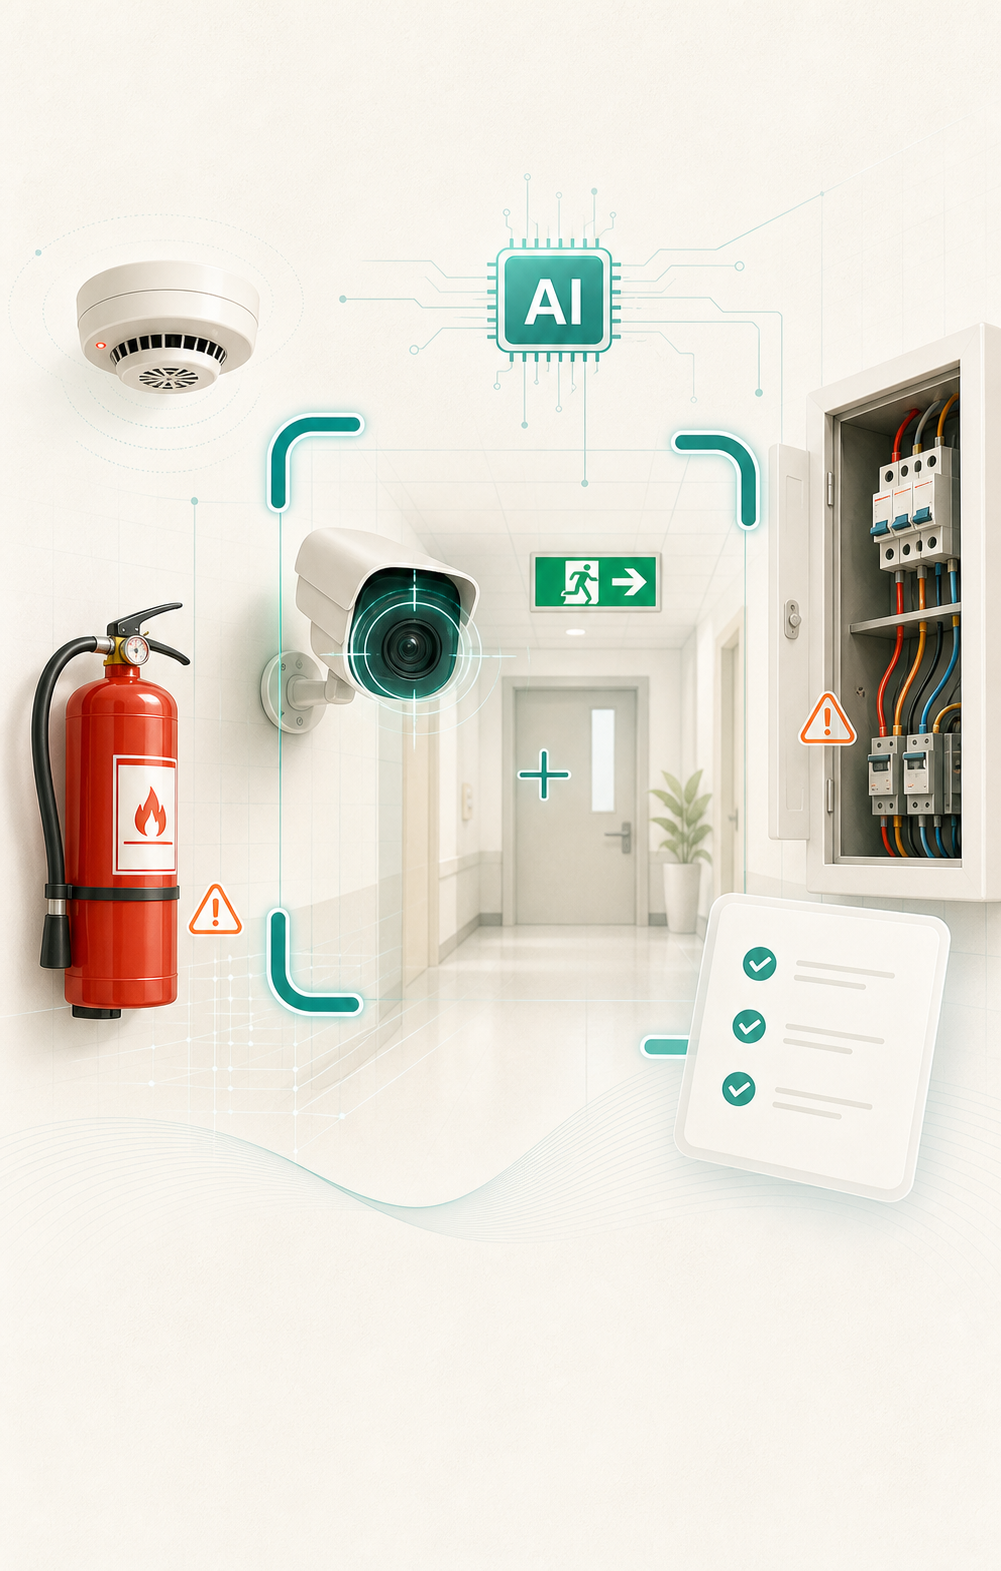
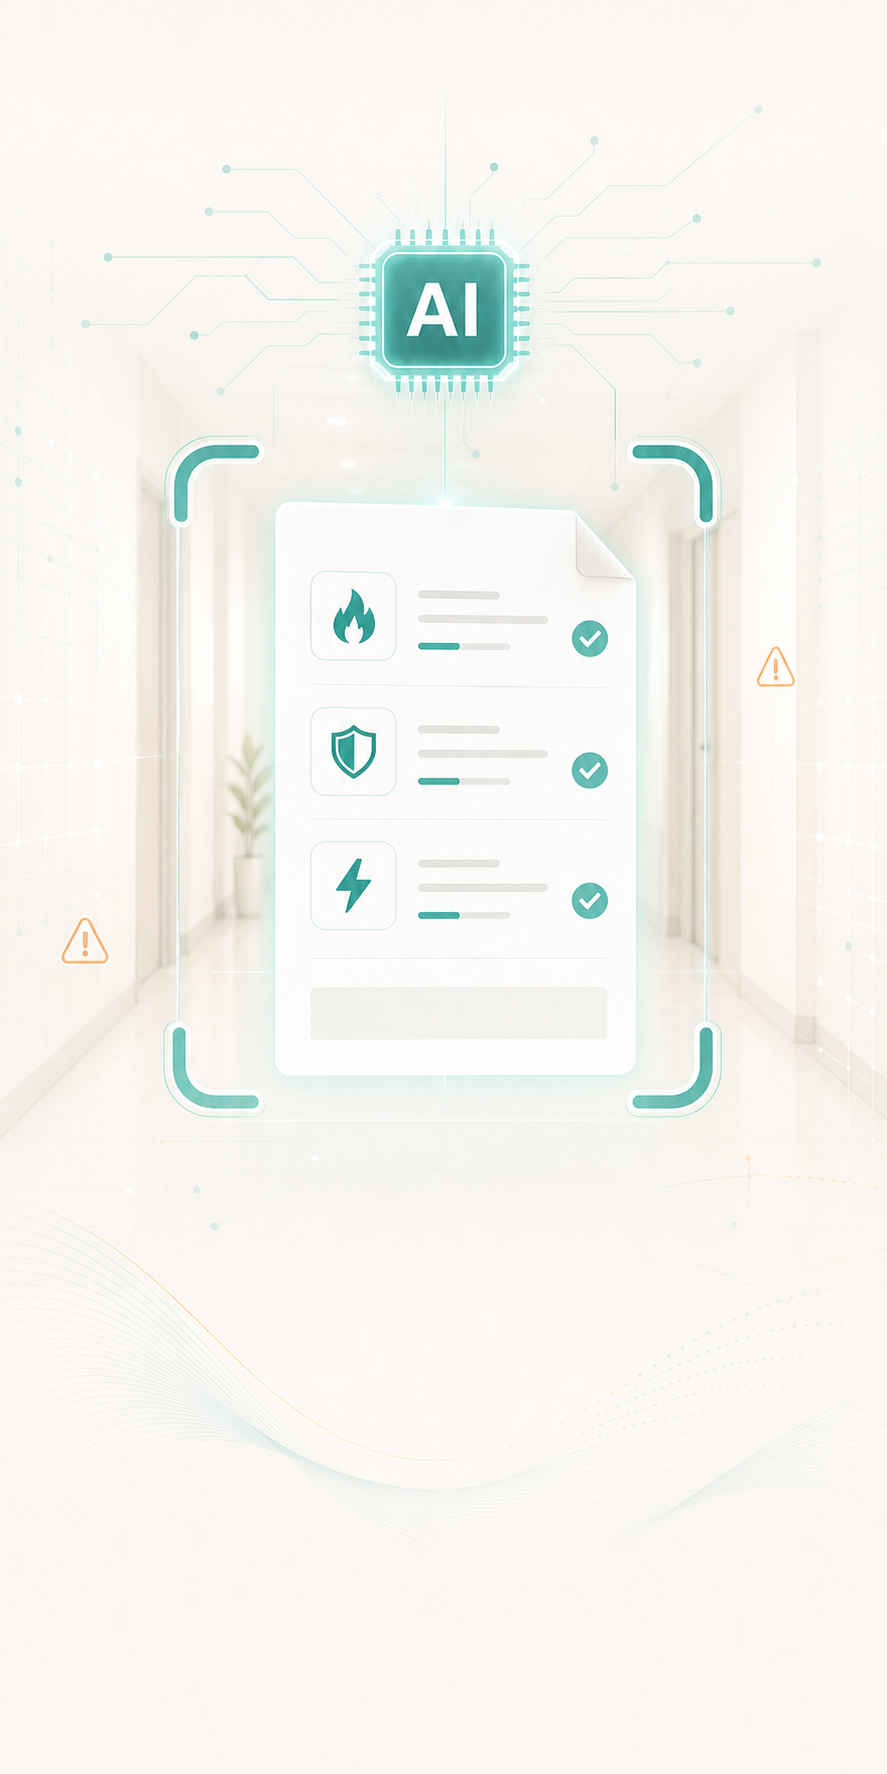
feat: redesign asg100 home hero

diff --git a/src/styles/index.css b/src/styles/index.css
@@ -1474,3 +1474,292 @@ body::before {
   border-radius: 999px;
   background: var(--accent);
 }
+
+/* Home integrated stage v3 */
+.home-page {
+  min-height: 100dvh;
+  background:
+    radial-gradient(circle at 50% 15%, rgba(15, 118, 110, 0.052), transparent 34%),
+    linear-gradient(180deg, #fbfaf6 0%, #fafaf7 100%);
+}
+
+.home-shell,
+.home-shell.rise {
+  width: min(100vw, 430px);
+  max-width: min(100vw, 430px);
+  min-height: 100dvh;
+  margin: 0 auto;
+  padding: 42px 0 calc(76px + max(12px, env(safe-area-inset-bottom)));
+  display: flex;
+  flex-direction: column;
+  overflow: hidden;
+}
+
+.home-title-wrap {
+  padding: 10px 18px 0;
+  z-index: 5;
+}
+
+.home-title {
+  font-size: clamp(1.5rem, 6.25vw, 1.84rem);
+  transform: scale(0.96);
+  transform-origin: center;
+}
+
+.home-title-ornament {
+  margin-top: 13px;
+}
+
+.home-visual-stage {
+  width: 100%;
+  min-height: 0;
+  height: clamp(520px, calc(100dvh - 156px), 640px);
+  flex: 1;
+  position: relative;
+  overflow: hidden;
+  isolation: isolate;
+}
+
+.home-visual-stage::before {
+  content: '';
+  position: absolute;
+  left: 0;
+  right: 0;
+  bottom: 56px;
+  height: 172px;
+  z-index: 3;
+  pointer-events: none;
+  background:
+    radial-gradient(ellipse at 50% 100%, rgba(204, 251, 241, 0.56), transparent 58%),
+    linear-gradient(180deg, rgba(250, 250, 247, 0), rgba(250, 250, 247, 0.78) 78%, rgba(250, 250, 247, 0.92));
+}
+
+.fire-ai-hero {
+  position: absolute;
+  inset: -30px 0 0;
+  width: 100%;
+  height: calc(100% + 8px);
+  margin: 0;
+  overflow: visible;
+  border-radius: 0;
+  pointer-events: none;
+}
+
+.fire-ai-hero::before {
+  z-index: 2;
+  background:
+    linear-gradient(180deg, rgba(250, 250, 247, 0.10) 0%, rgba(250, 250, 247, 0.02) 22%, rgba(250, 250, 247, 0.04) 76%, rgba(250, 250, 247, 0.32) 100%);
+}
+
+.fire-ai-hero::after {
+  inset: auto 0 -84px;
+  height: 32%;
+  z-index: 3;
+  background: linear-gradient(180deg, rgba(250, 250, 247, 0), rgba(250, 250, 247, 0.56) 52%, var(--bg));
+}
+
+.fire-ai-hero-image {
+  width: 100%;
+  height: 100%;
+  object-fit: cover;
+  object-position: center 35%;
+  opacity: 0.78;
+  filter: saturate(0.84) contrast(0.94) brightness(1.08);
+  mask-image: linear-gradient(180deg, transparent 0%, #000 7%, #000 88%, transparent 100%);
+}
+
+.home-actions {
+  position: absolute;
+  left: 18px;
+  right: 18px;
+  bottom: 50px;
+  z-index: 6;
+  width: auto;
+  margin: 0;
+  transform: none;
+  display: grid;
+  grid-template-columns: minmax(0, 1fr) minmax(0, 1fr);
+  gap: 12px;
+}
+
+.home-actions::before {
+  content: '';
+  position: absolute;
+  inset: 8px -8px -8px;
+  z-index: -1;
+  border-radius: 28px;
+  background: rgba(250, 250, 247, 0.42);
+  filter: blur(14px);
+}
+
+.home-action-card {
+  min-height: 108px;
+  padding: 14px 12px;
+  border: 1px solid rgba(15, 118, 110, 0.18);
+  border-radius: 18px;
+  background:
+    linear-gradient(145deg, rgba(255, 255, 255, 0.88), rgba(255, 255, 255, 0.64)),
+    radial-gradient(circle at 18% 18%, rgba(204, 251, 241, 0.60), transparent 46%),
+    radial-gradient(circle at 88% 100%, rgba(15, 118, 110, 0.08), transparent 42%);
+  box-shadow:
+    0 16px 32px rgba(15, 118, 110, 0.12),
+    0 2px 8px rgba(15, 20, 25, 0.04),
+    inset 0 1px 0 rgba(255, 255, 255, 0.78);
+  backdrop-filter: blur(12px);
+  gap: 8px;
+}
+
+.home-action-card::before {
+  inset: 1px;
+  border-radius: 17px;
+  background:
+    linear-gradient(145deg, rgba(255, 255, 255, 0.54), transparent 48%),
+    linear-gradient(180deg, transparent 62%, rgba(15, 118, 110, 0.045));
+}
+
+.home-action-card:nth-child(2) {
+  background:
+    linear-gradient(145deg, rgba(255, 255, 255, 0.88), rgba(255, 255, 255, 0.64)),
+    radial-gradient(circle at 18% 18%, rgba(204, 251, 241, 0.56), transparent 46%),
+    radial-gradient(circle at 88% 100%, rgba(15, 118, 110, 0.08), transparent 42%);
+}
+
+.home-action-card:hover {
+  border-color: rgba(15, 118, 110, 0.34);
+  box-shadow:
+    0 20px 38px rgba(15, 118, 110, 0.16),
+    0 2px 10px rgba(15, 20, 25, 0.06),
+    inset 0 1px 0 rgba(255, 255, 255, 0.84);
+}
+
+.home-action-icon {
+  width: 46px;
+  height: 42px;
+  border-radius: 0;
+  background: transparent;
+  box-shadow: none;
+}
+
+.home-custom-icon {
+  width: 38px;
+  height: 38px;
+}
+
+.scan-fire-icon {
+  stroke-width: 6;
+}
+
+.scan-fire-icon .scan-check {
+  fill: none;
+  stroke: url(#scanFireIconGradient);
+  stroke-width: 6;
+  stroke-linecap: round;
+  stroke-linejoin: round;
+}
+
+.docs-folder-icon .doc-sheet {
+  stroke-width: 3.4;
+}
+
+.docs-folder-icon .doc-fold,
+.docs-folder-icon .doc-line {
+  stroke-width: 3.4;
+}
+
+.docs-folder-icon .folder-back,
+.docs-folder-icon .folder-front {
+  stroke-width: 2.8;
+}
+
+.home-action-label {
+  font-size: clamp(1.08rem, 4.9vw, 1.24rem);
+  font-weight: 800;
+  line-height: 1.1;
+}
+
+@media (max-width: 380px) {
+  .home-shell,
+  .home-shell.rise {
+    padding-top: 40px;
+  }
+
+  .home-title {
+    font-size: 1.36rem;
+    transform: scale(0.94);
+  }
+
+  .home-actions {
+    left: 16px;
+    right: 16px;
+    bottom: 50px;
+    gap: 10px;
+  }
+
+  .home-action-card {
+    min-height: 102px;
+    border-radius: 17px;
+  }
+
+  .home-action-icon {
+    width: 42px;
+    height: 38px;
+    border-radius: 0;
+  }
+
+  .home-custom-icon {
+    width: 35px;
+    height: 35px;
+  }
+}
+
+@media (min-width: 768px) {
+  .home-shell,
+  .home-shell.rise {
+    width: 100%;
+    max-width: none;
+    padding-top: 44px;
+    padding-bottom: 112px;
+  }
+
+  .home-visual-stage {
+    width: min(100vw, 1080px);
+    height: min(62vh, 620px);
+    min-height: 520px;
+    margin: 0 auto;
+    border-radius: 0;
+  }
+
+  .fire-ai-hero {
+    inset: -42px 0 0;
+  }
+
+  .home-actions {
+    width: min(600px, calc(100vw - 96px));
+    left: 50%;
+    right: auto;
+    bottom: 24px;
+    transform: translateX(-50%);
+    gap: 18px;
+  }
+
+  .home-action-card {
+    min-height: 112px;
+    flex-direction: row;
+    justify-content: center;
+    gap: 16px;
+  }
+
+  .home-action-icon {
+    width: 58px;
+    height: 58px;
+  }
+
+  .home-custom-icon {
+    width: 42px;
+    height: 42px;
+  }
+
+  .home-action-label {
+    font-size: 1.28rem;
+  }
+}

diff --git a/src/App.jsx b/src/App.jsx
@@ -367,21 +367,23 @@ function HomeLanding({ onGoIdentify, onGoResources, onGoHistory, onGoProfile }) 
           </div>
         </header>
 
-        <section className="fire-ai-hero" aria-label="AI 消防隐患自动检查">
-          <img className="fire-ai-hero-image" src={homeFireAiBg} alt="" />
-        </section>
+        <section className="home-visual-stage" aria-label="AI 消防隐患自动检查">
+          <div className="fire-ai-hero" aria-hidden="true">
+            <img className="fire-ai-hero-image" src={homeFireAiBg} alt="" />
+          </div>
 
-        <section className="home-actions" aria-label="主要功能">
-          <HomeActionCard
-            icon={<ScanFireIcon />}
-            label="隐患识别"
-            onClick={onGoIdentify}
-          />
-          <HomeActionCard
-            icon={<DocsFolderIcon />}
-            label="资料大全"
-            onClick={onGoResources}
-          />
+          <section className="home-actions" aria-label="主要功能">
+            <HomeActionCard
+              icon={<ScanFireIcon />}
+              label="隐患识别"
+              onClick={onGoIdentify}
+            />
+            <HomeActionCard
+              icon={<DocsFolderIcon />}
+              label="资料大全"
+              onClick={onGoResources}
+            />
+          </section>
         </section>
 
         <BottomNav active="home" onGoHome={() => {}} onGoHistory={onGoHistory} onGoProfile={onGoProfile} />
@@ -430,15 +432,16 @@ function ScanFireIcon() {
           <stop offset="1" stopColor="#0f766e" />
         </linearGradient>
       </defs>
-      <path d="M20 34V22a8 8 0 0 1 8-8h12" />
-      <path d="M56 14h12a8 8 0 0 1 8 8v12" />
-      <path d="M76 62v12a8 8 0 0 1-8 8H56" />
-      <path d="M40 82H28a8 8 0 0 1-8-8V62" />
+      <path d="M21 35V24a7 7 0 0 1 7-7h11" />
+      <path d="M57 17h11a7 7 0 0 1 7 7v11" />
+      <path d="M75 61v11a7 7 0 0 1-7 7H57" />
+      <path d="M39 79H28a7 7 0 0 1-7-7V61" />
       <path
         className="scan-fire-fill"
-        d="M50 74c-11 0-20-8-20-19 0-8 5-14 11-20 1 8 5 12 10 14-1-9 4-16 12-23 0 14 13 19 13 32 0 9-8 16-18 16 3-3 5-6 5-10 0-5-4-9-9-14-1 6-4 9-8 12-3 2-4 5-4 8 0 1 0 3 1 4Z"
+        d="M49 73c-10 0-18-7-18-17 0-7 4-12 10-18 1 7 4 11 9 13-1-8 4-15 11-21 0 13 12 18 12 29 0 8-7 14-16 14 3-3 4-6 4-9 0-4-3-8-8-12-1 5-4 8-7 10-3 2-4 5-4 7 0 2 1 3 2 4Z"
       />
-      <path className="scan-fire-cut" d="M51 72c-5 0-9-4-9-9 0-4 3-7 7-10 1 5 4 7 8 9 2 1 3 4 3 6 0 2-1 4-3 6-1-4-3-6-6-8-2 2-3 4-3 6 0 1 1 2 3 0Z" />
+      <path className="scan-fire-cut" d="M50 70c-4 0-7-3-7-7 0-3 2-6 6-8 1 4 3 6 7 8 1 1 2 3 2 5 0 1-1 3-2 4-1-3-3-5-6-6-1 1-2 3-2 4 0 1 1 1 2 0Z" />
+      <path className="scan-check" d="M60 41l5 5 10-12" />
     </svg>
   )
 }
@@ -452,12 +455,12 @@ function DocsFolderIcon() {
           <stop offset="1" stopColor="#0f766e" />
         </linearGradient>
       </defs>
-      <path className="doc-sheet" d="M38 14h24l14 14v38H38Z" />
-      <path className="doc-fold" d="M62 14v15h14" />
-      <path className="doc-line" d="M46 37h20" />
-      <path className="doc-line" d="M46 49h24" />
-      <path className="folder-back" d="M18 36h22l7 8h31a6 6 0 0 1 6 6v6H18Z" />
-      <path className="folder-front" d="M14 48h68c4 0 7 4 6 8l-6 24a7 7 0 0 1-7 5H21a7 7 0 0 1-7-7Z" />
+      <path className="doc-sheet" d="M41 15h21l13 13v31H41Z" />
+      <path className="doc-fold" d="M62 15v14h13" />
+      <path className="doc-line" d="M48 37h19" />
+      <path className="doc-line" d="M48 48h22" />
+      <path className="folder-back" d="M18 38h22l7 8h31a6 6 0 0 1 6 6v5H18Z" />
+      <path className="folder-front" d="M14 50h68c4 0 7 4 6 8l-5 22a7 7 0 0 1-7 5H21a7 7 0 0 1-7-7Z" />
     </svg>
   )
 }